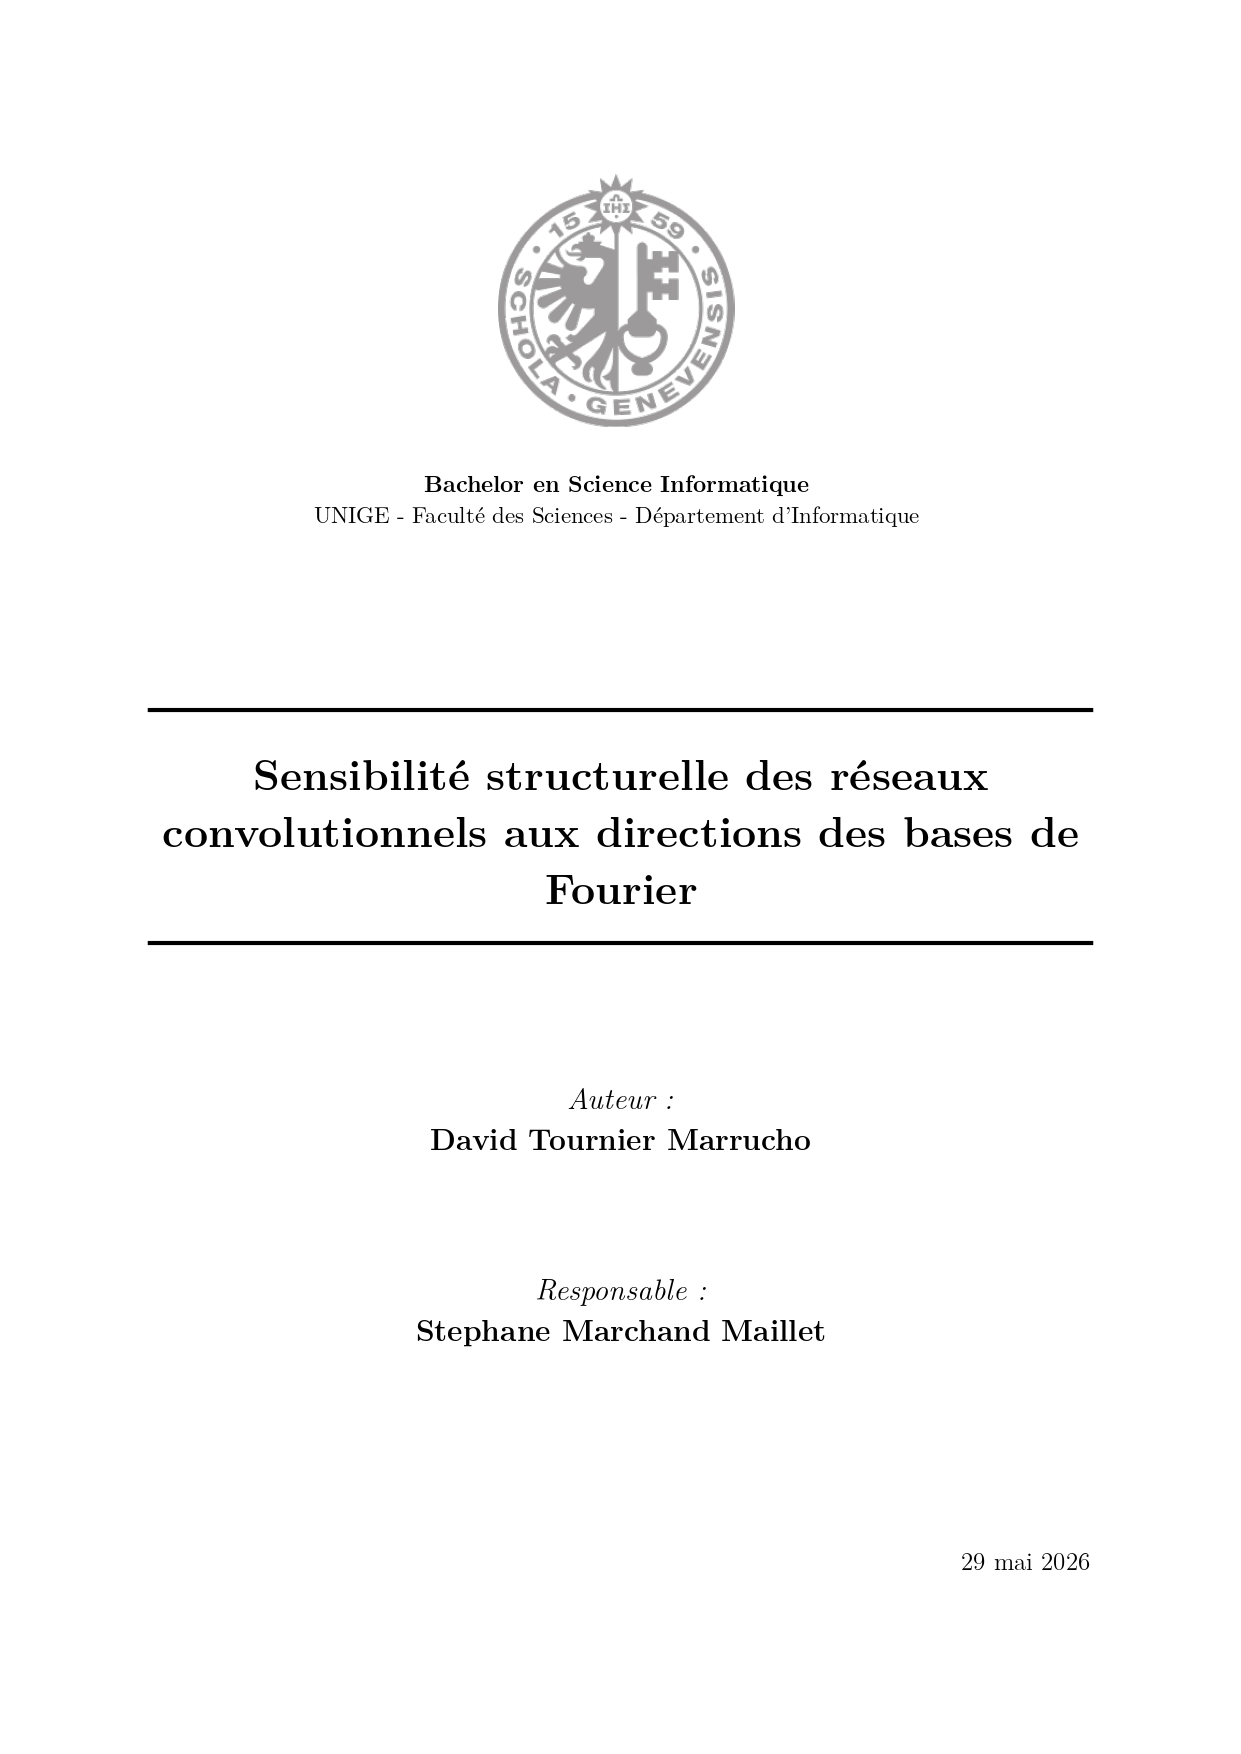
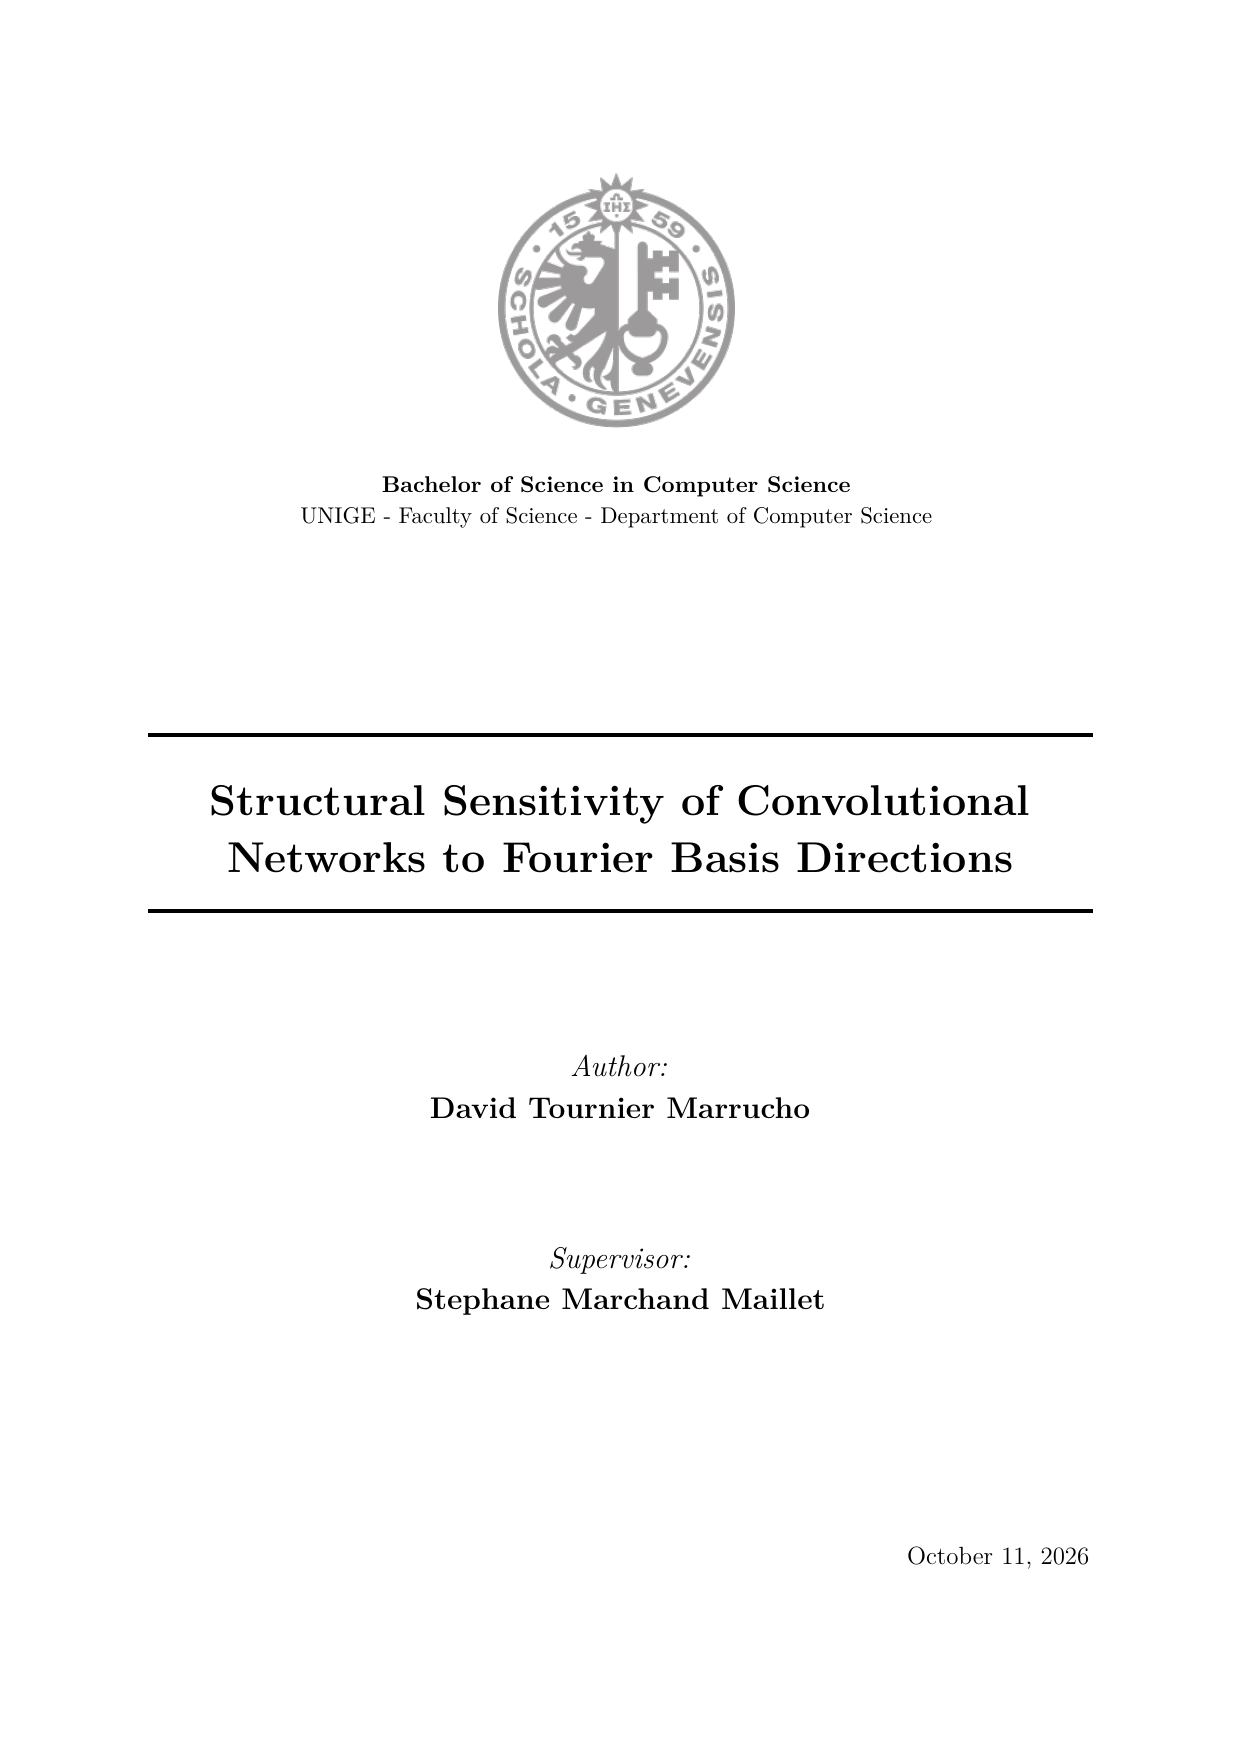
Make English report the default

diff --git a/README.md b/README.md
@@ -2,14 +2,14 @@
 
 # Bachelor Project: CNN Robustness and Fourier Analysis
 
-This repository contains the code, experimental scripts, and final report for my Bachelor project on the frequency sensitivity of convolutional neural networks. It includes the original French thesis and an English translation.
+This repository contains the code, experimental scripts, and report for my Bachelor project on the frequency sensitivity of convolutional neural networks. The English report is the primary public version; the original French thesis is preserved as the original-language version.
 
 The project studies how directions from the Fourier basis can induce structured adversarial perturbations on CNNs trained on CIFAR-10 and CIFAR-100. It focuses on a targeted reproduction with convolutional models, frequency-sensitivity heatmaps, random-noise baselines, epsilon sweeps, and stability analyses.
 
 The compiled reports are available at:
 
-- [Original French report](report/main.pdf)
-- [English report](report/main_en.pdf)
+- **[English report](report/main_en.pdf)** — primary public version
+- [Original French report](report/main.pdf) — original-language version
 
 ## Research Question
 
@@ -93,7 +93,7 @@ Datasets supported by the code:
 
 ## Report
 
-The original report is written in French, with a separate English translation. Their entry points and language-specific sources are:
+The English report is the primary public version of this project. The original French thesis is preserved alongside it as the original-language version. Their entry points and language-specific sources are:
 
 ```text
 French:  report/main.tex     report/sections/     report/appendices/
